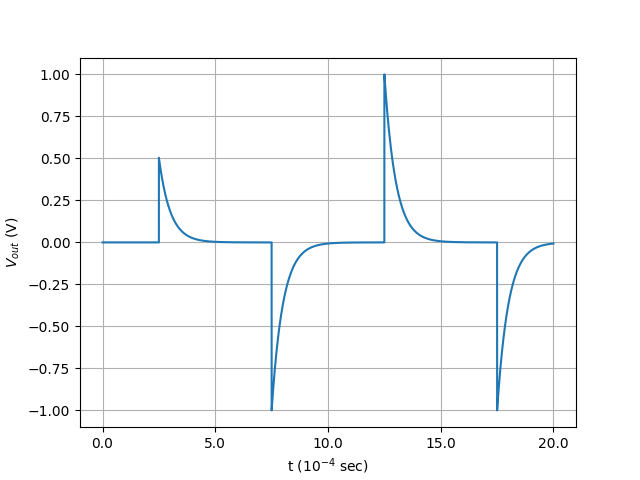
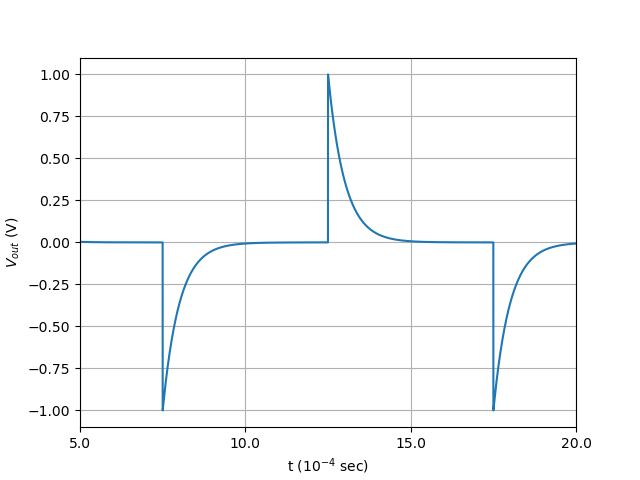
Fourth Commit

diff --git a/assign4/codes/assign4.py b/assign4/codes/assign4.py
@@ -43,6 +43,7 @@ V_out_t_A = np.where(t > T/4, np.fft.ifft(V_out_f_R_A), 0)
 V_out_t_A_normalized = V_out_t_A.real / np.max(np.abs(V_out_t_A.real))
 
 plt.plot(t, V_out_t_A_normalized)
+plt.xlim(0.5 * T, 2 * T)
 plt.xticks(np.arange(0, 2.01*T, 0.0005), np.arange(0, 2.01*T, 0.0005) * 1e4)
 plt.xlabel('t ($10^{-4}$ sec)')
 plt.ylabel('$V_{out}$ (V)')
